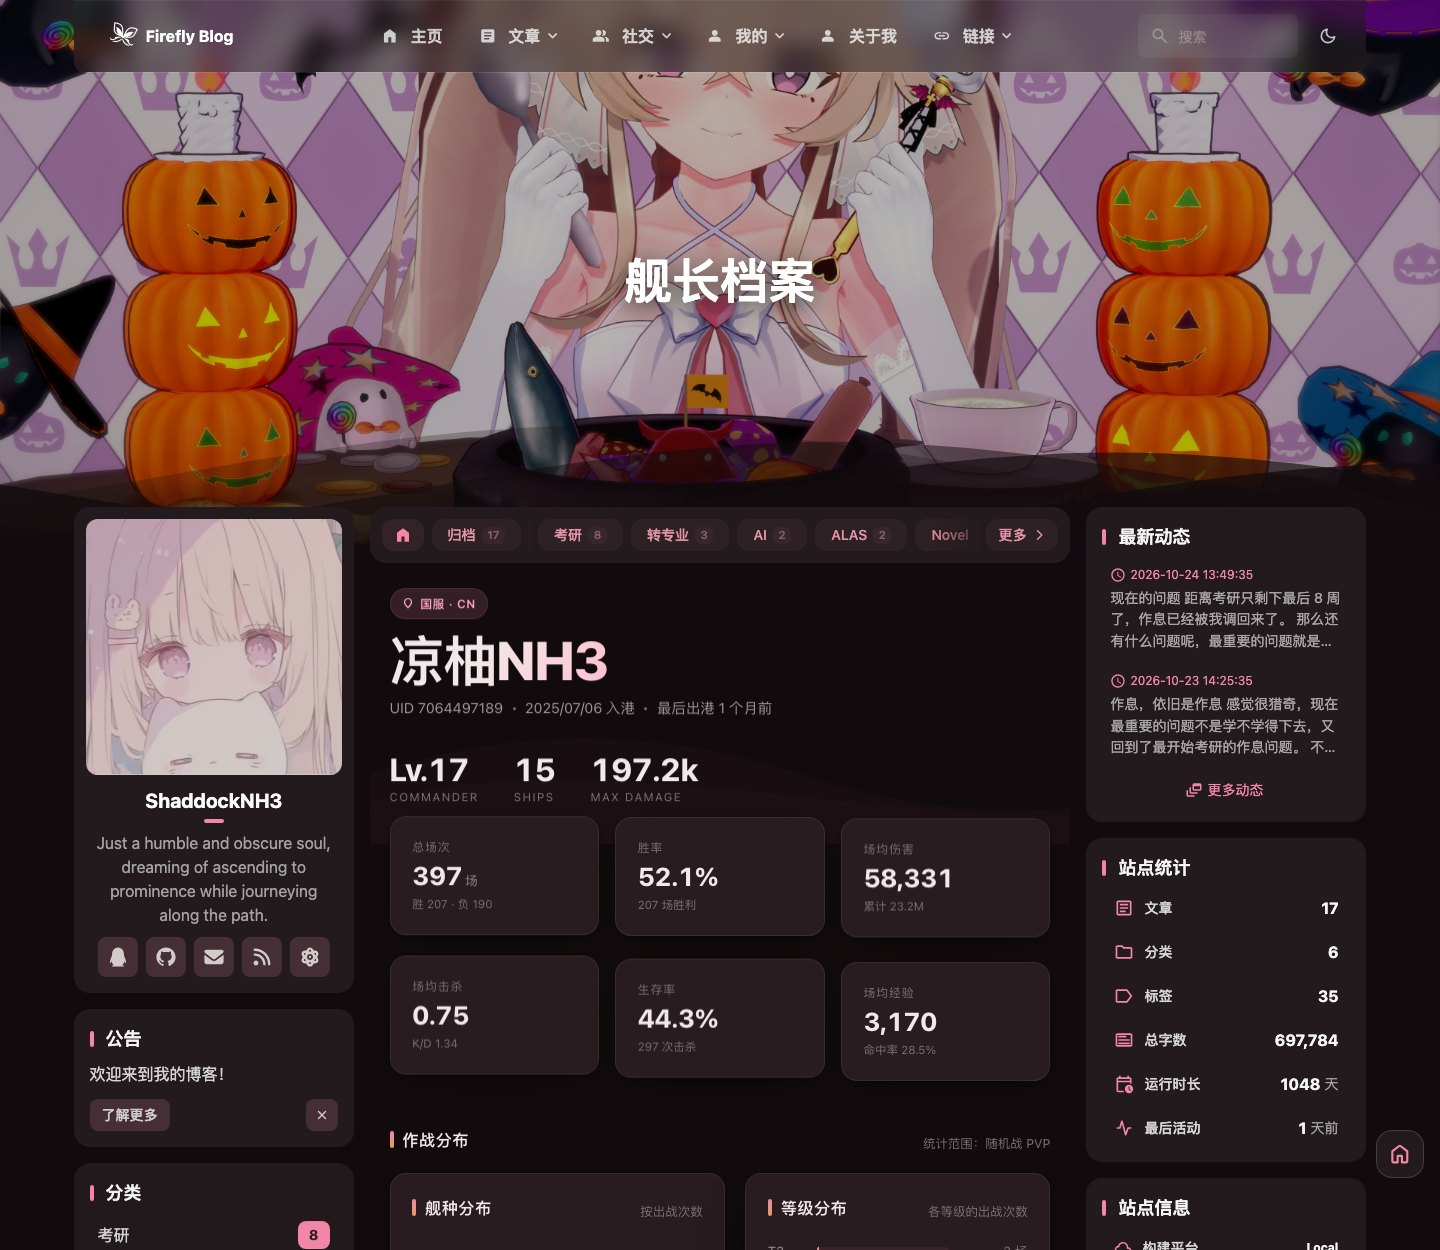
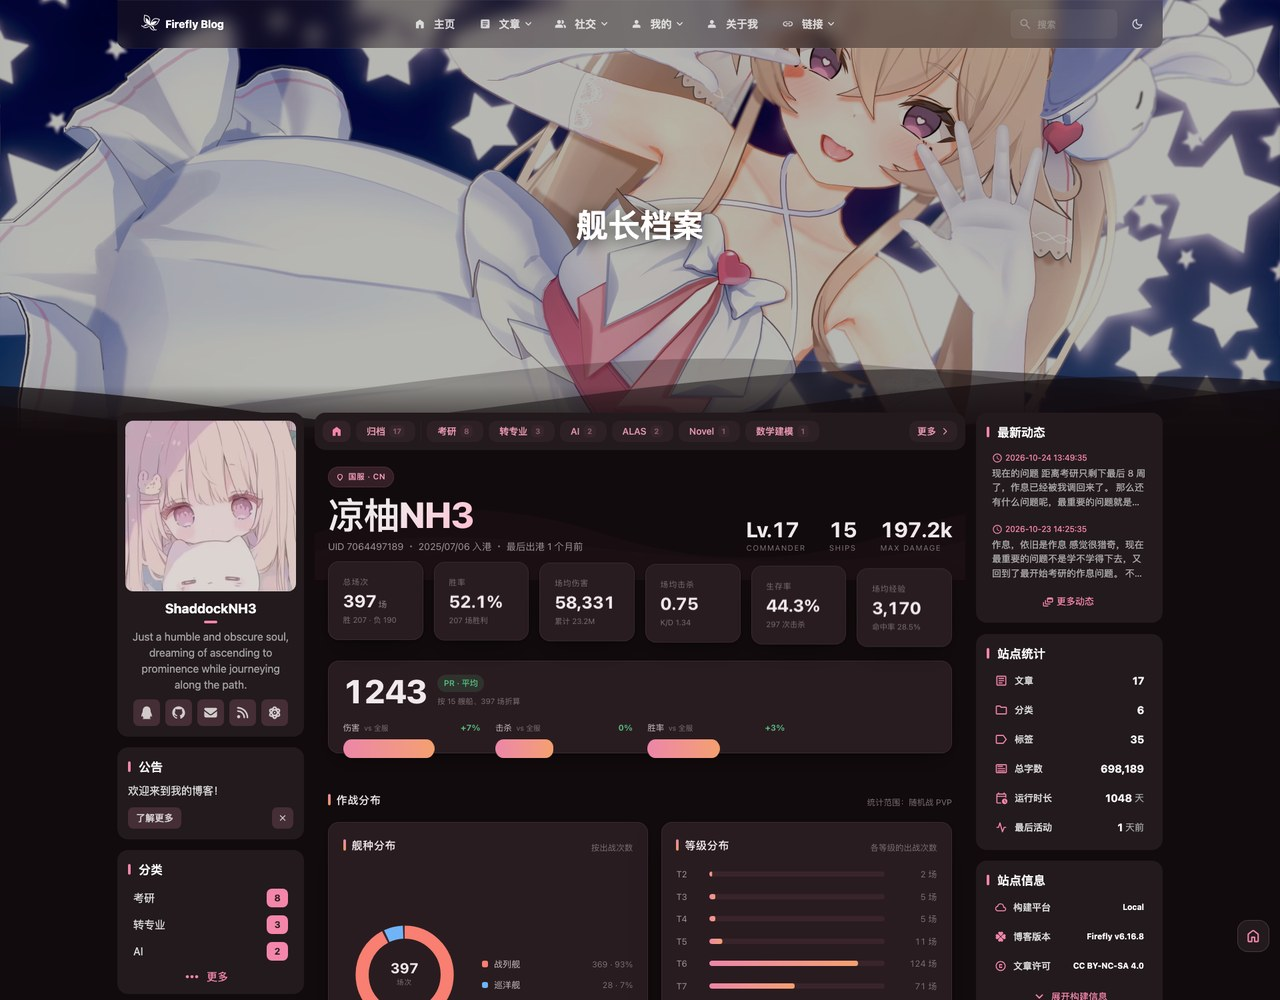
style: 排版断点改为容器查询，README 截图改用大窗口
- 指标卡 6 张固定列数：>900px 一行、<=900 三列、<=400 两列，不再出现 auto-fit 排出的 5+1
- 容器查询移出 @scope（嵌进去浏览器不生效），并按内容列宽度降级
- 首列 text-align 提高特异性，避免被 table.ships tbody td 覆盖
- 重新出图：独立站 1680 宽、嵌入博客 1920 宽

diff --git a/src/styles/global.css b/src/styles/global.css
@@ -97,37 +97,6 @@ html.dark .wows-scope {
 	margin-top: -1.8rem;
 }
 
-.wows-scope {
-	container-type: inline-size;
-}
-
-@container (max-width: 820px) {
-	.wows-scope .grid-metrics {
-		grid-template-columns: repeat(3, minmax(0, 1fr));
-	}
-}
-
-@container (max-width: 460px) {
-	.wows-scope .grid-metrics {
-		grid-template-columns: repeat(2, minmax(0, 1fr));
-	}
-}
-
-.wows-scope {
-	container-type: inline-size;
-}
-
-@container (max-width: 820px) {
-	.wows-scope .grid-metrics {
-		grid-template-columns: repeat(3, minmax(0, 1fr));
-	}
-}
-
-@container (max-width: 460px) {
-	.wows-scope .grid-metrics {
-		grid-template-columns: repeat(2, minmax(0, 1fr));
-	}
-}
 
 
 /* 嵌进博客时顶部已经有 banner，把 hero 的留白收掉 */
@@ -144,43 +113,15 @@ html.dark .wows-scope {
 	margin-top: -1.8rem;
 }
 
-.wows-scope {
-	container-type: inline-size;
-}
 
-@container (max-width: 820px) {
-	.wows-scope .grid-metrics {
-		grid-template-columns: repeat(3, minmax(0, 1fr));
-	}
-}
-
-@container (max-width: 460px) {
-	.wows-scope .grid-metrics {
-		grid-template-columns: repeat(2, minmax(0, 1fr));
-	}
-}
-
-.wows-scope {
-	container-type: inline-size;
-}
-
-@container (max-width: 820px) {
-	.wows-scope .grid-metrics {
-		grid-template-columns: repeat(3, minmax(0, 1fr));
-	}
-}
-
-@container (max-width: 460px) {
-	.wows-scope .grid-metrics {
-		grid-template-columns: repeat(2, minmax(0, 1fr));
-	}
-}
 
 /* -------------------------------- 基础 -------------------------------- */
 .wows-scope {
 	position: relative;
 	isolation: isolate;
 	min-height: 100%;
+	/* 容器查询的基准：嵌入博客时按内容列宽度排版，而不是按浏览器窗口 */
+	container-type: inline-size;
 	background-color: var(--wows-page-bg);
 	color: var(--wows-text);
 	font-family:
@@ -590,7 +531,7 @@ main {
 
 .grid-metrics {
 	display: grid;
-	grid-template-columns: repeat(auto-fit, minmax(9.5rem, 1fr));
+	grid-template-columns: repeat(6, minmax(0, 1fr));
 	gap: 1rem;
 	margin-top: -2.3rem;
 	position: relative;
@@ -1283,17 +1224,6 @@ main {
 .score-part-top b.down {
 	color: oklch(0.7 0.15 30);
 }
-
-@container (max-width: 620px) {
-	.score-parts {
-		grid-template-columns: repeat(2, minmax(0, 1fr));
-	}
-
-	.score-big {
-		font-size: 2.5rem;
-	}
-}
-
 .score-cell {
 	display: inline-block;
 	min-width: 2.5rem;
@@ -1417,7 +1347,8 @@ table.ships tbody tr:hover {
 	background: var(--wows-primary-ghost);
 }
 
-td.ship-cell {
+/* 需要和 table.ships tbody td 同等特异性，否则会被它的 text-align: right 盖掉 */
+table.ships tbody td.ship-cell {
 	text-align: left;
 	min-width: 12rem;
 }
@@ -1700,4 +1631,73 @@ td.ship-cell {
 	}
 }
 
+
+/* 嵌入博客时，内容列的宽度和浏览器窗口无关，
+   所以这里的断点全部按「容器」算，而不是按视口 */
+
+
+
+}
+
+/* 容器查询：放在 @scope 外面，按内容列宽度排版（嵌入博客时与浏览器窗口无关） */
+@container (max-width: 900px) {
+	.wows-scope .grid-metrics {
+		grid-template-columns: repeat(3, minmax(0, 1fr));
+	}
+}
+
+@container (max-width: 760px) {
+	.wows-scope .grid-2 {
+		grid-template-columns: minmax(0, 1fr);
+	}
+
+	.wows-scope .hero-inner {
+		flex-direction: column;
+		align-items: stretch;
+		gap: 1.4rem;
+	}
+
+	.wows-scope .hero-metrics {
+		justify-content: space-between;
+		gap: 1rem;
+	}
+}
+
+@container (max-width: 680px) {
+	.wows-scope .grid-ships {
+		grid-template-columns: repeat(2, minmax(0, 1fr));
+	}
+
+	.wows-scope .donut-wrap {
+		flex-direction: column;
+		align-items: center;
+		gap: 1rem;
+	}
+
+	.wows-scope .legend {
+		width: 100%;
+	}
+
+	.wows-scope .card {
+		padding: 0.9rem 1rem;
+	}
+
+	.wows-scope .metric-value {
+		font-size: 1.35rem;
+	}
+
+	.wows-scope .metric-label,
+	.wows-scope .metric-foot {
+		font-size: 0.7rem;
+	}
+}
+
+@container (max-width: 400px) {
+	.wows-scope .grid-metrics {
+		grid-template-columns: repeat(2, minmax(0, 1fr));
+	}
+
+	.wows-scope .grid-ships {
+		grid-template-columns: minmax(0, 1fr);
+	}
 }

diff --git a/README.md b/README.md
@@ -105,7 +105,9 @@ pnpm sync /path/to/Firefly
 
 几点说明：
 
-- 页面壳用 `MainGridLayout`，所以内容在中间列。窄的时候舰船表会横向滚动，这是三栏布局的代价
+- 页面壳用 `MainGridLayout`，所以内容在中间列。宽度大概是这样：1920 屏约 980px，1440 屏约 700px，1080 屏约 530px
+- 排版断点按**内容列**宽度算（CSS 容器查询），不是按浏览器窗口。所以窗口缩放、侧栏伸缩都能自适应：
+  6 张指标卡在 >900px 时一行放完，以下转 3 列，再窄转 2 列；舰船表最窄处还是会横向滚动，这是 7 列的代价
 - 内容外面套了 `wows-scope wows-scope--plain`：`--plain` 表示不抢博客的壁纸和字体，只用组件自己的皮
 - 配色继承博客的 `--hue`，那套「玫粉 / 海军蓝」的双主题在博客里不生效（博客说了算）
 - 数据改动后重新 `pnpm fetch && pnpm sync` 即可
